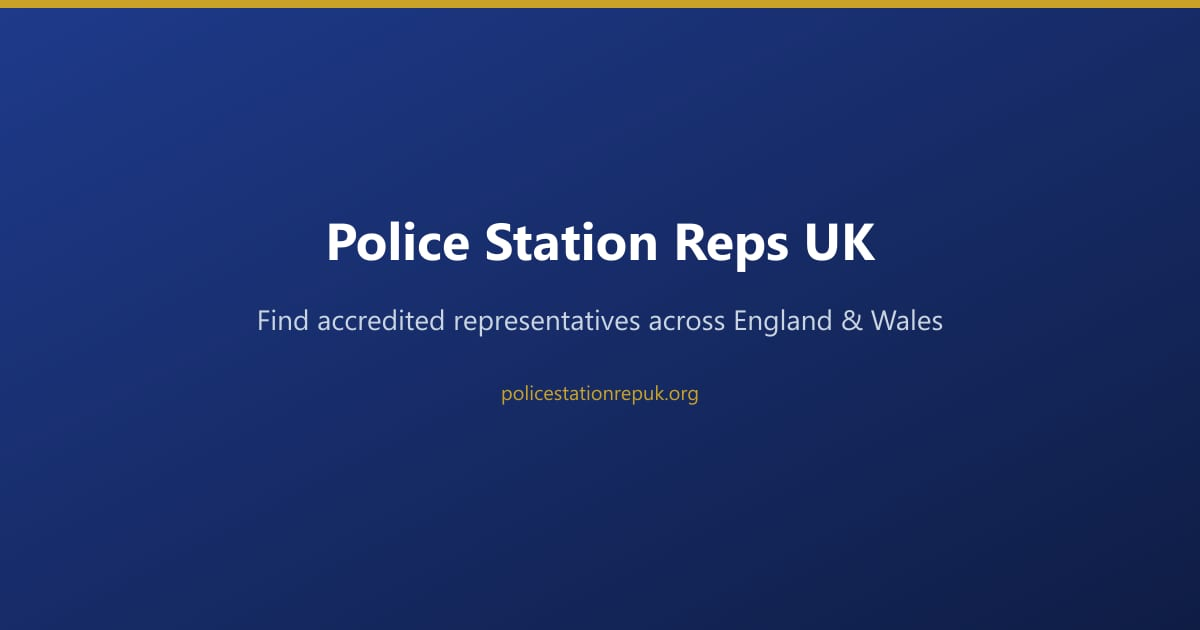
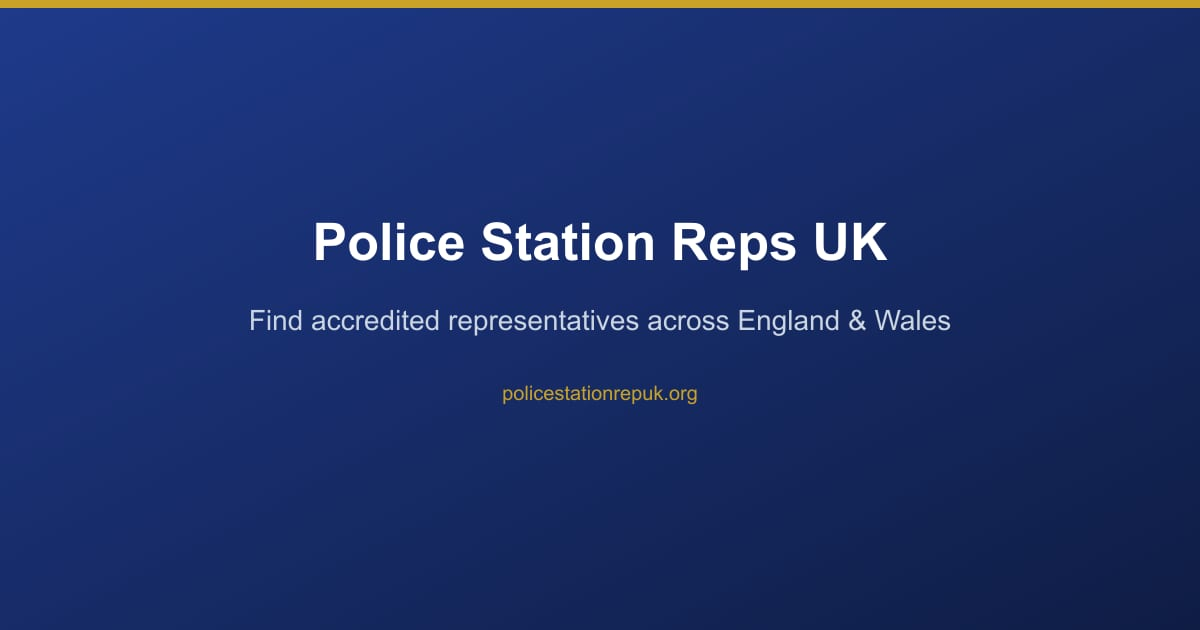
Use JPEG images for Google Business Buffer posts instead of WebP.
Rewrite WebP hero URLs to matching JPG assets at schedule time, generate JPG rasters alongside WebP heroes, and fall back to social-preview or feed defaults when needed.

Changed region(s): [[0.2467, 0.3317, 0.74, 0.4222], [0.185, 0.4825, 0.8017, 0.5429], [0.4008, 0.6032, 0.5858, 0.6333]]

diff --git a/lib/buffer/image-url.ts b/lib/buffer/image-url.ts
@@ -1,6 +1,15 @@
+import type { BufferChannelService } from './config';
+import { SITE_URL } from '@/lib/seo-layer/config';
+
 /** Buffer image URL validation — raster types only, publicly reachable, ≤ 5MB. */
 
 export const BUFFER_MAX_IMAGE_BYTES = 5 * 1024 * 1024;
+
+const GOOGLE_BUSINESS_CONTENT_TYPES = new Set(['image/jpeg', 'image/png']);
+
+/** Google Business Profile rejects WebP — JPEG/PNG only. */
+export const GOOGLE_BUSINESS_RASTER_FALLBACK =
+  'https://www.policestationagent.com/blog-images/blog-listing-0.jpg';
 
 const ACCEPTED_CONTENT_TYPES = new Set([
   'image/jpeg',
@@ -26,15 +35,141 @@ export class BufferPostImageError extends Error {
   }
 }
 
+export function isGoogleBusinessImageContentType(contentType: string | null | undefined): boolean {
+  if (!contentType) return false;
+  const base = contentType.split(';')[0]?.trim().toLowerCase();
+  return !!base && GOOGLE_BUSINESS_CONTENT_TYPES.has(base);
+}
+
+/** Candidate URLs for Google Business when the source image is WebP or incompatible. */
+export function googleBusinessImageCandidates(
+  imageUrl: string,
+  siteUrl: string = SITE_URL,
+): string[] {
+  const trimmed = imageUrl.trim();
+  const out: string[] = [];
+
+  if (/\.(jpe?g|png)(\?|$)/i.test(trimmed)) {
+    out.push(trimmed);
+  }
+
+  if (/\.webp(\?|$)/i.test(trimmed)) {
+    out.push(trimmed.replace(/\.webp(\?.*)?$/i, '.jpg$1'));
+    if (/-768\.webp(\?|$)/i.test(trimmed)) {
+      out.push(trimmed.replace(/-768\.webp(\?.*)?$/i, '.jpg$1'));
+      out.push(trimmed.replace(/-768\.webp(\?.*)?$/i, '-768.jpg$1'));
+    } else {
+      out.push(trimmed.replace(/\.webp(\?.*)?$/i, '-768.jpg$1'));
+    }
+  }
+
+  const base = siteUrl.replace(/\/$/, '');
+  try {
+    const host = new URL(trimmed).hostname;
+    const siteHost = new URL(base).hostname;
+    if (host === siteHost) {
+      out.push(`${base}/social-preview.jpg`);
+    } else if (/custodynote\.com$/i.test(host) || /policestationagent\.com$/i.test(host) || /psrtrain\.com$/i.test(host)) {
+      out.push(GOOGLE_BUSINESS_RASTER_FALLBACK);
+    }
+  } catch {
+    if (trimmed.startsWith('/')) {
+      out.push(`${base}/social-preview.jpg`);
+    }
+  }
+
+  return [...new Set(out.filter(Boolean))];
+}
+
+function googleBusinessRejectReason(input: {
+  status: number;
+  contentType?: string;
+  contentLength?: number;
+}): string | undefined {
+  if (input.status < 200 || input.status >= 300) {
+    return `HTTP ${input.status}`;
+  }
+  if (!input.contentType || !isGoogleBusinessImageContentType(input.contentType)) {
+    return `Google Business requires JPEG/PNG (got ${input.contentType ?? 'none'})`;
+  }
+  if (input.contentLength != null && input.contentLength > BUFFER_MAX_IMAGE_BYTES) {
+    const mb = (input.contentLength / (1024 * 1024)).toFixed(1);
+    return `image too large (${mb}MB; Buffer limit 5MB)`;
+  }
+  return undefined;
+}
+
+/** Probe image for Google Business — JPEG/PNG only, ≤ 5MB. */
+export async function probeGoogleBusinessImageUrl(
+  url: string,
+  fetchFn: typeof fetch = fetch,
+): Promise<BufferImageProbeResult> {
+  const trimmed = url?.trim();
+  if (!trimmed) return { ok: false, reason: 'empty url' };
+
+  try {
+    let res = await fetchFn(trimmed, {
+      method: 'HEAD',
+      redirect: 'follow',
+      signal: AbortSignal.timeout(20_000),
+    });
+
+    let contentType = res.headers.get('content-type') ?? undefined;
+    let contentLength = parseContentLength(res.headers.get('content-length') ?? null);
+
+    if (res.ok && contentType && isGoogleBusinessImageContentType(contentType) && contentLength == null) {
+      res = await fetchFn(trimmed, {
+        method: 'GET',
+        redirect: 'follow',
+        signal: AbortSignal.timeout(25_000),
+        headers: { Range: 'bytes=0-0' },
+      });
+      contentType = res.headers.get('content-type') ?? contentType;
+      const rangeTotal = res.headers.get('content-range');
+      const m = rangeTotal?.match(/\/(\d+)$/);
+      if (m?.[1]) contentLength = parseInt(m[1], 10);
+    }
+
+    const reason = googleBusinessRejectReason({ status: res.status, contentType, contentLength });
+    if (reason) return { ok: false, contentType, contentLength, reason };
+    return { ok: true, contentType, contentLength };
+  } catch (err) {
+    return { ok: false, reason: err instanceof Error ? err.message : 'probe failed' };
+  }
+}
+
+/** Pick first JPEG/PNG URL that passes Google Business probes. */
+export async function resolveGoogleBusinessImageUrl(
+  imageUrl: string,
+  fetchFn: typeof fetch = fetch,
+  siteUrl: string = SITE_URL,
+): Promise<string | undefined> {
+  for (const candidate of googleBusinessImageCandidates(imageUrl, siteUrl)) {
+    const probe = await probeGoogleBusinessImageUrl(candidate, fetchFn);
+    if (probe.ok) return candidate;
+  }
+  return undefined;
+}
+
 /** Validate image URL every time before scheduling — raster type, reachable, ≤ 5MB. */
 export async function assertBufferPostImageReady(
   imageUrl: string | undefined | null,
   fetchFn: typeof fetch = fetch,
+  options?: { channelService?: BufferChannelService },
 ): Promise<string> {
   const trimmed = imageUrl?.trim();
   if (!trimmed) {
     throw new BufferPostImageError('Buffer post requires a blog image URL');
   }
+
+  if (options?.channelService === 'googlebusiness') {
+    const resolved = await resolveGoogleBusinessImageUrl(trimmed, fetchFn);
+    if (!resolved) {
+      throw new BufferPostImageError('no Google Business compatible JPEG/PNG image');
+    }
+    return resolved;
+  }
+
   if (!isRasterImagePath(trimmed)) {
     throw new BufferPostImageError('non-raster image path');
   }

diff --git a/__tests__/buffer-image-url.test.ts b/__tests__/buffer-image-url.test.ts
@@ -3,10 +3,13 @@ import {
   BUFFER_MAX_IMAGE_BYTES,
   assertBufferPostImageReady,
   bufferImageRejectReason,
+  googleBusinessImageCandidates,
   isBufferCompatibleContentType,
+  isGoogleBusinessImageContentType,
   isRasterImagePath,
   probeBufferImageUrl,
   resolveBufferImageUrl,
+  resolveGoogleBusinessImageUrl,
 } from '@/lib/buffer/image-url';
 
 describe('buffer image-url validation', () => {
@@ -59,6 +62,67 @@ describe('buffer image-url validation', () => {
     await expect(
       assertBufferPostImageReady('https://example.com/huge.jpg', fetchMock as unknown as typeof fetch),
     ).rejects.toThrow(/too large/i);
+  });
+
+  it('googleBusinessImageCandidates rewrites webp to jpg paths', () => {
+    const candidates = googleBusinessImageCandidates(
+      'https://policestationrepuk.org/images/blog/raster/example.webp',
+      'https://policestationrepuk.org',
+    );
+    expect(candidates).toContain('https://policestationrepuk.org/images/blog/raster/example.jpg');
+    expect(candidates).toContain('https://policestationrepuk.org/social-preview.jpg');
+  });
+
+  it('resolveGoogleBusinessImageUrl prefers jpeg over webp', async () => {
+    const fetchMock = vi.fn().mockImplementation(async (url: string) => {
+      const u = String(url);
+      if (u.endsWith('.webp')) {
+        return {
+          ok: true,
+          status: 200,
+          headers: new Headers({ 'content-type': 'image/webp', 'content-length': '5000' }),
+        };
+      }
+      return {
+        ok: true,
+        status: 200,
+        headers: new Headers({ 'content-type': 'image/jpeg', 'content-length': '12000' }),
+      };
+    });
+
+    const resolved = await resolveGoogleBusinessImageUrl(
+      'https://policestationrepuk.org/images/blog/raster/example.webp',
+      fetchMock as unknown as typeof fetch,
+      'https://policestationrepuk.org',
+    );
+    expect(resolved).toBe('https://policestationrepuk.org/images/blog/raster/example.jpg');
+    expect(isGoogleBusinessImageContentType('image/jpeg')).toBe(true);
+    expect(isGoogleBusinessImageContentType('image/webp')).toBe(false);
+  });
+
+  it('assertBufferPostImageReady uses jpeg for googlebusiness channel', async () => {
+    const fetchMock = vi.fn().mockImplementation(async (url: string) => {
+      const u = String(url);
+      if (u.endsWith('.jpg')) {
+        return {
+          ok: true,
+          status: 200,
+          headers: new Headers({ 'content-type': 'image/jpeg', 'content-length': '12000' }),
+        };
+      }
+      return {
+        ok: true,
+        status: 200,
+        headers: new Headers({ 'content-type': 'image/webp', 'content-length': '5000' }),
+      };
+    });
+
+    const ready = await assertBufferPostImageReady(
+      'https://policestationrepuk.org/images/blog/raster/example.webp',
+      fetchMock as unknown as typeof fetch,
+      { channelService: 'googlebusiness' },
+    );
+    expect(ready).toBe('https://policestationrepuk.org/images/blog/raster/example.jpg');
   });
 
   it('resolveBufferImageUrl falls back when primary URL is too large', async () => {

diff --git a/__tests__/buffer-client.test.ts b/__tests__/buffer-client.test.ts
@@ -174,17 +174,35 @@ describe('buffer client', () => {
     ]);
   });
 
-  it('adds google business whats_new metadata', async () => {
-    const imageUrl = 'https://policestationrepuk.org/images/blog/hero.webp';
-    const fetchMock = stubFetchWithImageProbe(
-      mockBufferCreateSuccess({
-        id: 'post-gb',
-        dueAt: '2026-06-08T12:00:00.000Z',
-        channelId: 'gb-id',
-        channelService: 'googlebusiness',
-      }),
-      imageUrl,
-    );
+  it('adds google business whats_new metadata and uses jpeg not webp', async () => {
+    const imageUrl = 'https://policestationrepuk.org/images/blog/raster/hero.webp';
+    const jpegUrl = 'https://policestationrepuk.org/images/blog/raster/hero.jpg';
+    const fetchMock = vi.fn().mockImplementation(async (url: string) => {
+      if (String(url).includes('api.buffer.com')) {
+        return mockBufferCreateSuccess({
+          id: 'post-gb',
+          dueAt: '2026-06-08T12:00:00.000Z',
+          channelId: 'gb-id',
+          channelService: 'googlebusiness',
+        });
+      }
+      if (String(url) === jpegUrl) {
+        return {
+          ok: true,
+          status: 200,
+          headers: new Headers({ 'content-type': 'image/jpeg', 'content-length': '12000' }),
+        };
+      }
+      if (String(url) === imageUrl) {
+        return {
+          ok: true,
+          status: 200,
+          headers: new Headers({ 'content-type': 'image/webp', 'content-length': '5000' }),
+        };
+      }
+      throw new Error(`Unexpected fetch URL: ${url}`);
+    });
+    vi.stubGlobal('fetch', fetchMock);
 
     await createScheduledBufferPost('api-key', {
       channelId: 'gb-id',
@@ -197,6 +215,7 @@ describe('buffer client', () => {
 
     const bufferCall = fetchMock.mock.calls.find((c) => String(c[0]).includes('api.buffer.com'));
     const body = JSON.parse(String(bufferCall?.[1]?.body));
+    expect(body.variables.input.assets[0].image.url).toBe(jpegUrl);
     expect(body.variables.input.metadata.google).toEqual({
       type: 'whats_new',
       detailsWhatsNew: {

diff --git a/lib/buffer/client.ts b/lib/buffer/client.ts
@@ -101,7 +101,9 @@ export async function createScheduledBufferPost(
     imageAlt?: string;
   },
 ): Promise<CreatedBufferPost> {
-  const validatedImageUrl = await assertBufferPostImageReady(input.imageUrl);
+  const validatedImageUrl = await assertBufferPostImageReady(input.imageUrl, fetch, {
+    channelService: input.channelService,
+  });
 
   const metadata = postMetadataForService(input.channelService, input.url);
   const assets = buildBufferImageAssets({

diff --git a/lib/buffer/scheduler.ts b/lib/buffer/scheduler.ts
@@ -269,7 +269,7 @@ export async function runBufferBlogScheduler(
           const message = err instanceof Error ? err.message : '';
           const duplicate = /posted that one recently/i.test(message);
           const imageRejected =
-            /file size limit|unsupported content-type|image exceeds|image validation failed|image too large|non-raster image path|requires a blog image url/i.test(
+            /file size limit|unsupported content-type|image exceeds|image validation failed|image too large|non-raster image path|requires a blog image url|google business requires|no google business compatible/i.test(
               message,
             );
           if ((!duplicate && !imageRejected) || attempt >= 11) {